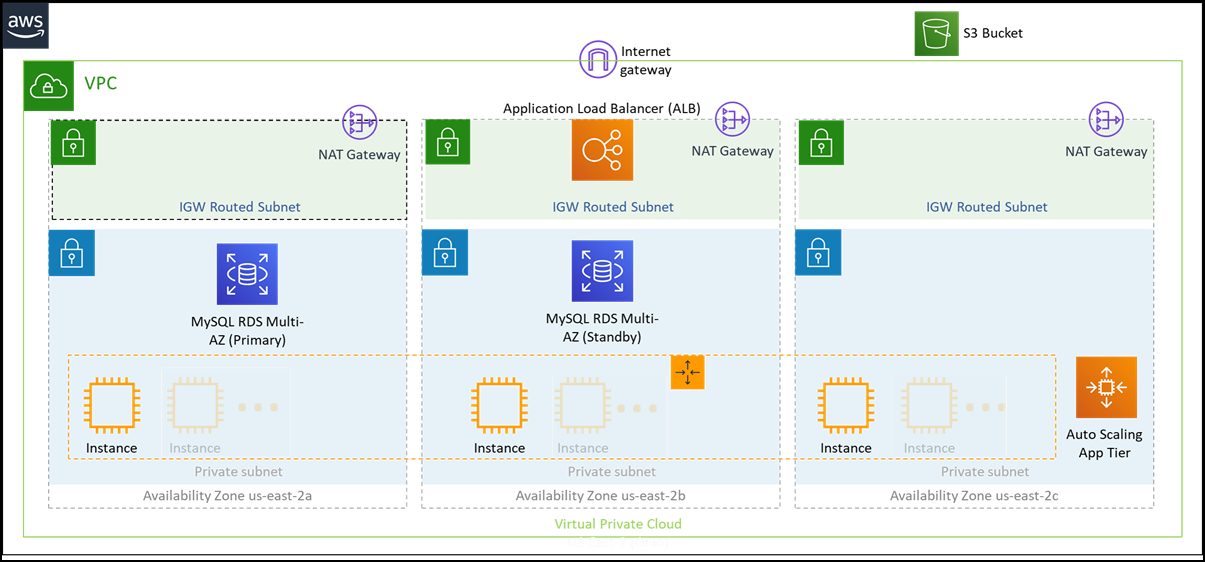
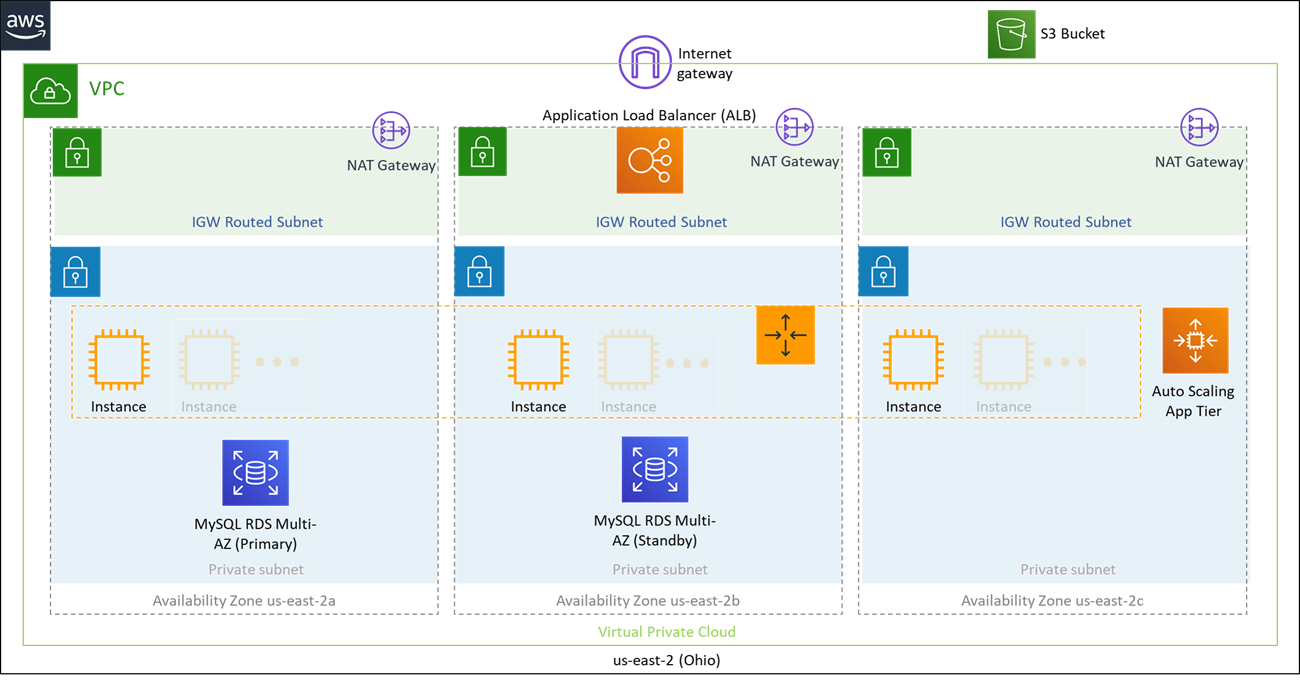
REL300 doc and image updates and fixes to powershell scripts
* REL300 doc and image updates in response to feedback

* REL300 add more info on 504 error

* REL300 updates in response to feedback on PR 71

* Fix Powershell scripts

-Terminate is no longer a supported option (see https://tommymaynard.com/tag/remove-ec2instance/)

diff --git a/Reliability/300_Testing_for_Resiliency_of_EC2_RDS_and_S3/Code/Python/server.py b/Reliability/300_Testing_for_Resiliency_of_EC2_RDS_and_S3/Code/Python/server.py
@@ -16,9 +16,9 @@ html = """
     <body>
         <h1>Welcome to the Resiliency Workshop!</h1>
         <p>{Message}</p>
-        <p>{Content}<p>
-        <img src="{WebSiteImage}" alt="" scale="0">
-        <p><a href="{Link}">Click here to go to other page</a></p>
+        <p>{Content}</p>
+        <p><a href="{Link}">click here to go to other page</a></p>
+        <img src="{WebSiteImage}" alt="Resiliency Workshop" width="700">
     </body>
 </html>"""
 

diff --git a/Reliability/300_Testing_for_Resiliency_of_EC2_RDS_and_S3/Lab_Guide.md b/Reliability/300_Testing_for_Resiliency_of_EC2_RDS_and_S3/Lab_Guide.md
@@ -371,7 +371,11 @@ This failure injection will simulate a critical failure of the Amazon RDS DB ins
 
 1. Before you initiate the failure simulation, refresh the service website several times. Every time the image is loaded, the website writes a record to the Amazon RDS database
 
-1. Click on **Click here to go to other page** and it will show the latest ten entries in the Amazon RDS DB. Click again to return to the image page.
+1. Click on **click here to go to other page** and it will show the latest ten entries in the Amazon RDS DB
+      1. The DB table shows "hits" on our _image page_
+      1. Website URL access requests are shown here for traffic against the _image page_. These include IPs of browser traffic as well as IPs of load balancer health checks
+      1. For each region the AWS Elastic Load Balancer makes these health checks, so you will see three IP addresses from these
+      1. Click on **click here to go to other page** again to return to the _image page_
 
 1. Go to the RDS Dashboard in the AWS Console at <http://console.aws.amazon.com/rds>
 
@@ -406,7 +410,7 @@ Watch how the service responds. Note how AWS systems help maintain service avail
 
 1. The website is _not_ available. Some errors you might see reported:
       * **No Response / Timeout**: Request was successfully sent to EC2 server, but server no longer has connection to an active database
-      * **504 Gateway Time-out**: Amazon Elastic Load Balancer has removed the servers that are unable to respond and added new ones, but the new ones have not yet finished initialization, and there are no healthy hosts to receive the request
+      * **504 Gateway Time-out**: Amazon Elastic Load Balancer did not get a response from the server.  This can happen when it has removed the servers that are unable to respond and added new ones, but the new ones have not yet finished initialization, and there are no healthy hosts to receive the request
       * **502 Bad Gateway**: The Amazon Elastic Load Balancer got a bad request from the server
       * An error you will _not_ see is **This site can’t be reached**. This is because the Elastic Load Balancer has a node in each of the three Availability Zones and is always available to serve requests.
 
@@ -449,6 +453,7 @@ Watch how the service responds. Note how AWS systems help maintain service avail
 This failure injection will simulate a critical problem with one of the three AWS Availability Zones (AZs) used by your service. AWS Availability Zones are  powerful tools for helping build highly available applications. If an application is partitioned across AZs, companies are better isolated and protected from issues such as lightning strikes, tornadoes, earthquakes and more.
 
 1. Go to the RDS Dashboard in the AWS Console at <http://console.aws.amazon.com/rds> and note which Availability Zone the AWS RDS _primary_ DB instance is in.
+      * **Note**: If you previously ran the **RDS Failure Injection test**, you must wait until the console shows the AZs for the _primary_ and _standby_ instances as swapped, before running this test
       * A good way to run the AZ failure injection is first in an AZ _other_ than this - we'll call this **Scenario 1**
       * Then try it again in the _same_ AZ as the AWS RDS _primary_ DB instance - we'll call this **Scenario 2**
       * Taking down two out of the three AZs this way is an unlikely use case, however it will show how AWS systems work to maintain service integrity despite extreme circumstances.

diff --git a/Reliability/300_Testing_for_Resiliency_of_EC2_RDS_and_S3/Documentation/Programming_Environment.md b/Reliability/300_Testing_for_Resiliency_of_EC2_RDS_and_S3/Documentation/Programming_Environment.md
@@ -75,9 +75,9 @@ Choose the appropriate section below for your language
 1. If you do not have the AWS Tools for Powershell, download and install them following the instructions here. <https://aws.amazon.com/powershell/>
 
 1. Download the [resiliency PowerShell scripts from GitHub](https://github.com/awslabs/aws-well-architected-labs/tree/master/Reliability/300_Testing_for_Resiliency_of_EC2_RDS_and_S3/Code/FailureSimulations/powershell/) to a location convenient for you to execute them. You can use the following links to download the scripts:
-      * [powershell/fail_instance.sh](https://raw.githubusercontent.com/awslabs/aws-well-architected-labs/master/Reliability/300_Testing_for_Resiliency_of_EC2_RDS_and_S3/Code/FailureSimulations/powershell/fail_instance.ps1)
-      * [powershell/failover_rds.sh](https://raw.githubusercontent.com/awslabs/aws-well-architected-labs/master/Reliability/300_Testing_for_Resiliency_of_EC2_RDS_and_S3/Code/FailureSimulations/powershell/failover_rds.ps1)
-      * [powershell/fail_az.sh](https://raw.githubusercontent.com/awslabs/aws-well-architected-labs/master/Reliability/300_Testing_for_Resiliency_of_EC2_RDS_and_S3/Code/FailureSimulations/powershell/fail_az.ps1)
+      * [powershell/fail_instance.ps1](https://raw.githubusercontent.com/awslabs/aws-well-architected-labs/master/Reliability/300_Testing_for_Resiliency_of_EC2_RDS_and_S3/Code/FailureSimulations/powershell/fail_instance.ps1)
+      * [powershell/failover_rds.ps1](https://raw.githubusercontent.com/awslabs/aws-well-architected-labs/master/Reliability/300_Testing_for_Resiliency_of_EC2_RDS_and_S3/Code/FailureSimulations/powershell/failover_rds.ps1)
+      * [powershell/fail_az.ps1](https://raw.githubusercontent.com/awslabs/aws-well-architected-labs/master/Reliability/300_Testing_for_Resiliency_of_EC2_RDS_and_S3/Code/FailureSimulations/powershell/fail_az.ps1)
 
 1. If your PowerShell scripts are refused authorization to access your AWS account, consult [Getting Started with the AWS Tools for Windows PowerShell](https://docs.aws.amazon.com/powershell/latest/userguide/pstools-getting-started.html)
 
